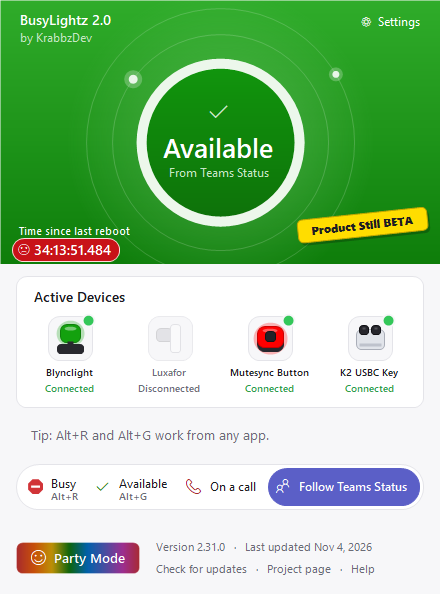
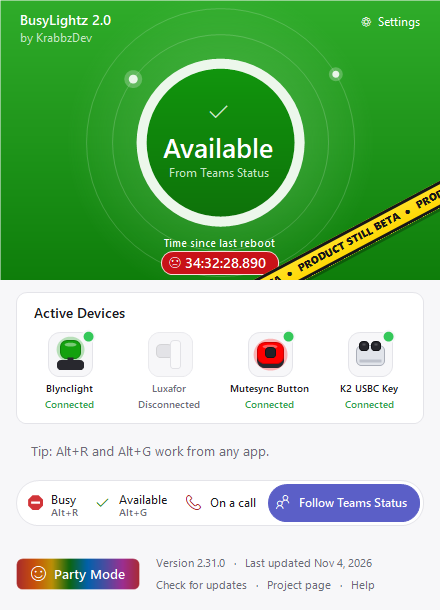
Add Disable switches for the K2 and Mutesync, police tape, centered uptime
- K2 USBC Key: a Disable K2 Functions switch; while on, no actions run and
  the K2's clicks go through as ordinary mouse clicks. The action rows grey
  out, and the text box for an action that needs none stays read-only.
- Mutesync Button: Disable Mutesync Button Functions replaces the old on
  switch (same setting, turned around); the ring settings grey out.
- Light Control's Disable All Light Functions switch is red to match.
- The BETA sticker is now police tape: yellow with black edges and the
  words repeated, across the corner of Orbit and Color block.
- The uptime clock is centered under the ring.

diff --git a/src/SettingsForm.cs b/src/SettingsForm.cs
@@ -153,10 +153,12 @@ namespace Krabbz.Blynclight
             Heading(null, null);
             DevicePicture(new MuteSyncPicture(), muteButtonStatus,
                 "Its ring here shows what your button is showing right now.");
-            Box("Mute and unmute my mic with a Mutesync Button", AppSettings.MuteSyncEnabled,
-                v => { AppSettings.MuteSyncEnabled = v; tray.ApplySettings(); RefreshDevices(); },
-                help: "Pressing your Mutesync Button mutes or unmutes your mic in Windows, for every app. Its ring shows red when muted and green when live. Close the MuteMe app so BusyLightz can use the button.");
+            var muteSyncOff = DisableSwitch("Disable Mutesync Button Functions", !AppSettings.MuteSyncEnabled,
+                v => { AppSettings.MuteSyncEnabled = !v; tray.ApplySettings(); RefreshDevices(); },
+                "BusyLightz lets go of the button: pressing it won't mute your mic, and its ring goes dark. Turn this on to use the MuteMe app instead.");
+            int firstRingControl = page.Controls.Count;
             RingSection();
+            GreyOutWhile(muteSyncOff, firstRingControl);
             EndPage();
 
             StartPage("K2 USBC Key", K2Glyph, PageColors.K2, "Two buttons for anything you like: type, mute, set your status.");
@@ -206,6 +208,44 @@ namespace Krabbz.Blynclight
         }
 
         readonly K2Picture k2Picture = new K2Picture();
+
+        // A "Disable ... Functions" switch in bold, with what it does underneath; on means the device is left alone.
+        CheckBox DisableSwitch(string text, bool value, Action<bool> save, string note)
+        {
+            var box = new ToggleBox
+            {
+                Text = text,
+                Checked = value,
+                AutoSize = true,
+                Font = new Font("Segoe UI Semibold", 10.5f),
+                Location = new Point(24, y),
+                Accent = Theme.Red,
+            };
+            box.CheckedChanged += delegate { save(box.Checked); };
+            Add(box);
+            y += 28;
+            Add(new Label
+            {
+                Text = note,
+                AutoSize = true,
+                MaximumSize = new Size(width - 24 - 70 - 24, 0),
+                Font = new Font("Segoe UI", 9f),
+                Location = new Point(24 + 46, y),
+                Tag = VersionLabel,
+            });
+            y += 40 + RowGap;
+            return box;
+        }
+
+        // Greys out the controls added to this page from index first on, while the switch is on.
+        void GreyOutWhile(CheckBox off, int first)
+        {
+            var controls = new List<Control>();
+            for (int i = first; i < page.Controls.Count; i++) controls.Add(page.Controls[i]);
+            Action apply = () => { foreach (var control in controls) control.Enabled = !off.Checked; };
+            off.CheckedChanged += delegate { apply(); };
+            apply();
+        }
 
         // A device's picture on the left, with its status and a short note beside it.
         void DevicePicture(Control picture, Label status, string note)
@@ -294,6 +334,10 @@ namespace Krabbz.Blynclight
             DevicePicture(k2Picture, k2Status, "Press a button on your K2 and it lights up here.");
             tray.K2Pressed += k2Picture.Flash;
             FormClosed += delegate { tray.K2Pressed -= k2Picture.Flash; };
+            var k2Off = DisableSwitch("Disable K2 Functions", AppSettings.K2Disabled,
+                v => { AppSettings.K2Disabled = v; tray.ApplySettings(); },
+                "BusyLightz leaves the K2 alone: no actions run, and its buttons are ordinary left and right mouse clicks again.");
+            int firstK2Control = page.Controls.Count;
             K2Row("Left button", K2Key.Button.Left, "What happens when you press the K2 USBC Key's left button on its own.");
             K2Row("Right button", K2Key.Button.Right, "What happens when you press the K2 USBC Key's right button on its own.");
             K2Row("Both together", K2Key.Button.Both, "What happens when you press both buttons at the same time. It counts once, so it doesn't also run Left or Right.");
@@ -305,6 +349,7 @@ namespace Krabbz.Blynclight
             email.TextChanged += delegate { AppSettings.MacroEmail = email.Text; };
             Add(email);
             y += 28 + RowGap + 4;
+            GreyOutWhile(k2Off, firstK2Control);
             Add(new Label
             {
                 Text = "No K2 software needed. Out of the box the K2 USBC Key's buttons are mouse clicks; BusyLightz cancels those clicks " +
@@ -342,9 +387,14 @@ namespace Krabbz.Blynclight
             Action showValue = () =>
             {
                 string action = K2Actions.All[picker.SelectedIndex][0];
-                value.Enabled = K2Actions.NeedsValue(action);
+                // Read-only (not disabled) when the action needs no text, so Disable K2 Functions can grey the row and
+                // turning it off again leaves this as the action wants it.
+                bool needs = K2Actions.NeedsValue(action);
+                value.ReadOnly = !needs;
+                value.TabStop = needs;
+                value.ForeColor = needs ? Theme.Text : Theme.Muted;
                 // A hint in the empty box for what goes there; the email action shows the address it types.
-                value.Text = value.Enabled ? AppSettings.K2Value(button) : action == "TypeEmail" ? AppSettings.MacroEmail : "";
+                value.Text = needs ? AppSettings.K2Value(button) : action == "TypeEmail" ? AppSettings.MacroEmail : "";
                 SetCue(value, K2Actions.Hint(action));
             };
             picker.SelectedIndexChanged += delegate
@@ -352,7 +402,7 @@ namespace Krabbz.Blynclight
                 AppSettings.SetK2Action(button, K2Actions.All[picker.SelectedIndex][0]);
                 showValue();
             };
-            value.TextChanged += delegate { if (value.Enabled) AppSettings.SetK2Value(button, value.Text); };
+            value.TextChanged += delegate { if (!value.ReadOnly) AppSettings.SetK2Value(button, value.Text); };
             showValue();
             Add(picker);
             Add(value);
@@ -1116,6 +1166,7 @@ namespace Krabbz.Blynclight
             var disableAll = new ToggleBox
             {
                 Text = "Disable All Light Functions",
+                Accent = Theme.Red,
                 Checked = AppSettings.UsbLightsDisabled,
                 AutoSize = true,
                 Font = new Font("Segoe UI Semibold", 10),

diff --git a/src/ControlForm.cs b/src/ControlForm.cs
@@ -501,7 +501,7 @@ namespace Krabbz.Blynclight
 
             // Bottom left: how long since the PC last restarted, to the millisecond; bottom right: the beta sticker.
             DrawUptime(g, text, soft);
-            DeviceTiles.BetaSticker(g, Width - Pad - 62, Height - 40);
+            DeviceTiles.BetaSticker(g, Width - 84, Height - 42, -28, 300);
         }
 
         [System.Runtime.InteropServices.DllImport("kernel32.dll")]
@@ -520,21 +520,25 @@ namespace Krabbz.Blynclight
             // A running clock in total hours: hours:minutes:seconds.milliseconds, e.g. 34:08:49.234 after a day and 10 hours.
             string value = ((int)up.TotalHours).ToString("00") + ":" + up.Minutes.ToString("00") + ":" +
                 up.Seconds.ToString("00") + "." + up.Milliseconds.ToString("000");
-            int x = Pad, top = Height - 40;
-            TextRenderer.DrawText(g, "Time since last reboot", UptimeLabelFont, new Point(x, top), overADay ? text : soft);
-            var size = TextRenderer.MeasureText(g, value, UptimeFont, Size.Empty, TextFormatFlags.NoPadding);
+            // Centered under the ring. Sized from a template of zeros, so it doesn't shift as the digits tick.
+            var labelSize = TextRenderer.MeasureText(g, "Time since last reboot", UptimeLabelFont, Size.Empty, TextFormatFlags.NoPadding);
+            var size = TextRenderer.MeasureText(g, System.Text.RegularExpressions.Regex.Replace(value, "[0-9]", "0"), UptimeFont, Size.Empty, TextFormatFlags.NoPadding);
+            int top = Height - 44;
+            TextRenderer.DrawText(g, "Time since last reboot", UptimeLabelFont, new Point((Width - labelSize.Width) / 2, top), overADay ? text : soft, TextFormatFlags.NoPadding);
             if (!overADay)
             {
-                TextRenderer.DrawText(g, value, UptimeFont, new Point(x, top + 16), text, TextFormatFlags.NoPadding);
+                TextRenderer.DrawText(g, value, UptimeFont, new Rectangle((Width - size.Width) / 2 - 4, top + 17, size.Width + 8, size.Height), text,
+                    TextFormatFlags.NoPadding | TextFormatFlags.HorizontalCenter);
                 return;
             }
             // Over a day: a red pill with a sad face.
-            const string Sad = "☹";
+            const string Sad = "\u2639";
             var face = TextRenderer.MeasureText(g, Sad, SadFont, Size.Empty, TextFormatFlags.NoPadding);
-            var pill = new Rectangle(x - 4, top + 14, face.Width + 6 + size.Width + 12, Math.Max(size.Height, face.Height) + 4);
+            int width = face.Width + 6 + size.Width + 18;
+            var pill = new Rectangle((Width - width) / 2, top + 15, width, Math.Max(size.Height, face.Height) + 4);
             Theme.FillRounded(g, pill, pill.Height / 2, Color.FromArgb(200, 18, 24), Color.FromArgb(255, 220, 220));
-            TextRenderer.DrawText(g, Sad, SadFont, new Point(pill.X + 6, pill.Y + (pill.Height - face.Height) / 2), Color.White, TextFormatFlags.NoPadding);
-            TextRenderer.DrawText(g, value, UptimeFont, new Point(pill.X + 6 + face.Width + 4, pill.Y + (pill.Height - size.Height) / 2), Color.White, TextFormatFlags.NoPadding);
+            TextRenderer.DrawText(g, Sad, SadFont, new Point(pill.X + 8, pill.Y + (pill.Height - face.Height) / 2), Color.White, TextFormatFlags.NoPadding);
+            TextRenderer.DrawText(g, value, UptimeFont, new Point(pill.X + 8 + face.Width + 4, pill.Y + (pill.Height - size.Height) / 2), Color.White, TextFormatFlags.NoPadding);
         }
 
 
@@ -721,7 +725,7 @@ namespace Krabbz.Blynclight
 
             // The beta sticker on the right; device tiles are in the Active Devices panel.
             const int tiles = 0;
-            DeviceTiles.BetaSticker(g, Width - Pad - 62, Height - 20);
+            DeviceTiles.BetaSticker(g, Width - 84, Height - 34, -24, 300);
 
             TextRenderer.DrawText(g, Status, Theme.Hero, new Rectangle(Pad - 2, 36, Width - 2 * Pad - tiles - 8, 40), text,
                 TextFormatFlags.SingleLine | TextFormatFlags.EndEllipsis);
@@ -844,7 +848,7 @@ namespace Krabbz.Blynclight
             }
             else if (style == WindowStyles.Orbit)
             {
-                ring = new OrbitRing { Bounds = new Rectangle(0, 0, WindowWidth, 264) };
+                ring = new OrbitRing { Bounds = new Rectangle(0, 0, WindowWidth, 280) };
                 ring.SettingsClicked += delegate { tray.ShowSettings(); };
                 Controls.Add(ring);
                 y = ring.Bottom + 12;
@@ -907,7 +911,7 @@ namespace Krabbz.Blynclight
             header.Paint += (sender, e) =>
             {
                 using (var pen = new Pen(Theme.Border)) e.Graphics.DrawLine(pen, 0, header.Height - 1, header.Width, header.Height - 1);
-                DeviceTiles.BetaSticker(e.Graphics, WindowWidth - Pad - 92 - 82, 26);
+                DeviceTiles.BetaSticker(e.Graphics, WindowWidth - Pad - 92 - 84, 26, -3, 150);
             };
             header.Controls.Add(new Label { Text = "BusyLightz 2.0", Font = Theme.Strong, ForeColor = Theme.Text, AutoSize = true, Location = new Point(Pad, 9) });
             header.Controls.Add(new Label { Text = "by KrabbzDev", Font = Theme.Small, ForeColor = Theme.Muted, AutoSize = true, Location = new Point(Pad + 1, 29) });

diff --git a/src/DeviceTiles.cs b/src/DeviceTiles.cs
@@ -235,29 +235,59 @@ namespace Krabbz.Blynclight
             Theme.FillRounded(g, foot, 3, dark, dark);
         }
 
-        // A yellow "Product Still BETA" sticker, tilted a little like a real one, centered on (x, y).
-        public static void BetaSticker(Graphics g, int x, int y)
+        // "Product Still BETA" as police tape: a yellow band with black edges and the words repeated in heavy capitals,
+        // with zig-zag cut ends and a soft shadow, centered on (x, y) and turned angle degrees. A long band across a
+        // corner gets cut off by the edges like real tape.
+        public static void BetaSticker(Graphics g, int x, int y, float angle = -8, int length = 210)
         {
-            const string text = "Product Still BETA";
-            var yellow = Color.FromArgb(255, 221, 0);
-            using (var font = new Font("Segoe UI Black", 8.5f))
+            const string Words = "PRODUCT STILL BETA";
+            var yellow = Color.FromArgb(255, 214, 0);
+            var ink = Color.FromArgb(22, 22, 24);
+            const int Band = 24, Edge = 3, Notch = 5;
+            var state = g.Save();
+            g.SmoothingMode = SmoothingMode.AntiAlias;
+            g.TranslateTransform(x, y);
+            g.RotateTransform(angle);
+            float half = length / 2f, top = -Band / 2f, bottom = Band / 2f;
+            // The tape's outline, with zig-zag cuts at both ends.
+            var outline = new List<PointF> { new PointF(-half, top), new PointF(half, top) };
+            for (int i = 1; i <= 4; i++) outline.Add(new PointF(half + (i % 2 == 1 ? -Notch : 0), top + i * Band / 4f));
+            outline.Add(new PointF(-half, bottom));
+            for (int i = 3; i >= 1; i--) outline.Add(new PointF(-half + (i % 2 == 1 ? Notch : 0), top + i * Band / 4f));
+            using (var path = new GraphicsPath())
             {
-                var size = TextRenderer.MeasureText(g, text, font, Size.Empty, TextFormatFlags.NoPadding);
-                var r = new Rectangle(-size.Width / 2 - 10, -size.Height / 2 - 4, size.Width + 20, size.Height + 8);
-                var state = g.Save();
-                g.SmoothingMode = SmoothingMode.AntiAlias;
-                g.TranslateTransform(x, y);
-                g.RotateTransform(-6);
-                using (var shadow = Theme.Rounded(new Rectangle(r.X + 2, r.Y + 3, r.Width, r.Height), 5))
-                using (var dark = new SolidBrush(Color.FromArgb(60, 0, 0, 0)))
-                    g.FillPath(dark, shadow);
-                Theme.FillRounded(g, r, 5, yellow, Theme.Mix(yellow, Color.Black, 0.25));
-                // TextRenderer ignores the rotation, so the text is drawn with GDI+.
-                using (var ink = new SolidBrush(Color.FromArgb(30, 30, 34)))
-                using (var center = new StringFormat { Alignment = StringAlignment.Center, LineAlignment = StringAlignment.Center })
-                    g.DrawString(text, font, ink, new RectangleF(r.X, r.Y + 1, r.Width, r.Height), center);
-                g.Restore(state);
+                path.AddPolygon(outline.ToArray());
+                using (var shadow = new SolidBrush(Color.FromArgb(70, 0, 0, 0)))
+                {
+                    g.TranslateTransform(2, 3);
+                    g.FillPath(shadow, path);
+                    g.TranslateTransform(-2, -3);
+                }
+                using (var fill = new LinearGradientBrush(new RectangleF(-half, top, length, Band), Color.FromArgb(255, 226, 40), yellow, LinearGradientMode.Vertical))
+                    g.FillPath(fill, path);
+                // Black edges along the top and bottom, kept inside the tape.
+                var clip = g.Save();
+                g.SetClip(path);
+                using (var edge = new SolidBrush(ink))
+                {
+                    g.FillRectangle(edge, -half, top, length, Edge);
+                    g.FillRectangle(edge, -half, bottom - Edge, length, Edge);
+                }
+                // The words, repeated along the tape with a bullet between them.
+                using (var font = new Font("Segoe UI Black", 8f))
+                using (var brush = new SolidBrush(ink))
+                using (var format = new StringFormat { LineAlignment = StringAlignment.Center })
+                {
+                    string phrase = Words + "  \u25CF  ";
+                    float step = g.MeasureString(phrase, font).Width;
+                    // One copy centered on the tape, so the words read in full however much of the tape shows.
+                    float start = -step / 2 - step * (float)Math.Ceiling(half / step);
+                    for (float tx = start; tx < half; tx += step)
+                        g.DrawString(phrase, font, brush, new RectangleF(tx, top + 1, step + 4, Band - 2), format);
+                }
+                g.Restore(clip);
             }
+            g.Restore(state);
         }
 
         // Luxafor Flag: a white upright bar with the colored flag on its side.

diff --git a/src/K2Key.cs b/src/K2Key.cs
@@ -89,6 +89,10 @@ namespace Krabbz.Blynclight
         // How many of the K2's own clicks have been cancelled, for the log and tests.
         public int ClicksBlocked { get { return blocked; } }
 
+        // Set from Disable K2 Functions in Settings: the K2's clicks go through as ordinary clicks, and no press is
+        // reported, so no action runs.
+        public static volatile bool Disabled;
+
         public K2Key()
         {
             ui = SynchronizationContext.Current ?? new WindowsFormsSynchronizationContext();
@@ -136,7 +140,7 @@ namespace Krabbz.Blynclight
                 int message = wParam.ToInt32();
                 ushort flag = message == WM_LBUTTONDOWN ? LeftDown : message == WM_LBUTTONUP ? LeftUp
                     : message == WM_RBUTTONDOWN ? RightDown : message == WM_RBUTTONUP ? RightUp : (ushort)0;
-                if (flag != 0)
+                if (flag != 0 && !Disabled)
                 {
                     try
                     {
@@ -255,6 +259,7 @@ namespace Krabbz.Blynclight
             if (!wasDown || leftDown || rightDown) return;
             var pressed = bothSeen ? Button.Both : button;
             bothSeen = false;
+            if (Disabled) return;
             ui.Post(delegate { if (Pressed != null) Pressed(pressed); }, null);
         }
 

diff --git a/src/TrayApp.cs b/src/TrayApp.cs
@@ -416,6 +416,7 @@ namespace Krabbz.Blynclight
             };
             K2Connected = K2Key.Present();
             // The K2 key's buttons run the macros picked in Settings.
+            K2Key.Disabled = AppSettings.K2Disabled;
             k2Key = new K2Key();
             k2Key.Pressed += button =>
             {
@@ -606,6 +607,7 @@ namespace Krabbz.Blynclight
             light.ApplySettings();
             calls.Recheck();
             muteButton.Enabled = AppSettings.MuteSyncEnabled;
+            K2Key.Disabled = AppSettings.K2Disabled;
             muteButton.ApplySettings();
             if (AppSettings.OverrideTimesOut) StartOverrideTimerIfNeeded();
             else light.SetReturnToTeams(null);

diff --git a/src/AppSettings.cs b/src/AppSettings.cs
@@ -171,6 +171,9 @@ namespace Krabbz.Blynclight
         }
         public static bool MuteSyncOnlyOnCalls { get { return Get("MuteSyncOnlyOnCalls", false); } set { Set("MuteSyncOnlyOnCalls", value); } }
 
+        // Leaves the K2 key alone: no actions, and its buttons are ordinary mouse clicks again. Off unless changed.
+        public static bool K2Disabled { get { return Get("K2Disabled", false); } set { Set("K2Disabled", value); } }
+
         // K2 macro key: what each button (and both together) does, from K2Actions.All, and the text it needs.
         internal static string K2Action(K2Key.Button button)
         {

diff --git a/docs/Mute-Button-and-K2-Key.md b/docs/Mute-Button-and-K2-Key.md
@@ -31,7 +31,7 @@ Open **Settings > Mutesync Button**. At the top, a picture of the button shows i
 
 | Setting | What it does |
 | --- | --- |
-| **Mute and unmute my mic with a Mutesync Button** | Turns mutesync support on or off. On by default; it does nothing until a button is plugged in. The status underneath says *Connected on COM3* (or another port), *Not found* or *In use by another app*. |
+| **Disable Mutesync Button Functions** | Off by default. Turn it on and BusyLightz lets go of the button: pressing it won't mute your mic and its ring goes dark, so you can use the MuteMe app instead. The ring settings are greyed out while it's on. The status beside the picture says *Connected on COM3* (or another port), *Not found*, *In use by another app* or *Turned off*. |
 | **Ring brightness** | 5% to 100%. The default, 25%, matches the MuteMe app. |
 | **Muted** / **Live (not muted)** | The ring's colors. Red and green by default; click a dot to pick from the same colors as your lights. |
 | **Only light the ring while an app is using my mic** | Keeps the ring dark except during calls, so it isn't glowing all day. Off by default. |
@@ -45,6 +45,8 @@ The K2's two buttons each run an action, and so does pressing **both together**.
 Out of the box the K2's buttons are a left and a right mouse click. BusyLightz catches those clicks before Windows acts on them, so a press only runs your action and doesn't click wherever the pointer is. Clicks from your real mouse aren't affected. While BusyLightz isn't running, the K2 clicks like a mouse again.
 
 ### What each button can do
+
+**Disable K2 Functions** (off by default) makes BusyLightz leave the K2 alone: no actions run, and its buttons are ordinary left and right mouse clicks again. The actions below are greyed out while it's on.
 
 Pick an action for **Left button**, **Right button** and **Both together** in **Settings > K2 USBC Key**. At the top of that page, a picture of the K2 lights up the key you press on the real one (both keys for Both together), so you can check it's working.
 

diff --git a/docs/Using-the-Light.md b/docs/Using-the-Light.md
@@ -33,7 +33,7 @@ Pick how the window looks under **Window style** in [Settings](#settings). Each 
 
 | Style | Looks like |
 | --- | --- |
-| **Orbit** (the default) | The top of the window glows in your status color, with a big ring showing the status and its icon, e.g. ✓ *Available* over *From Teams Status*. Two faint orbits circle the ring, each with a small dot that drifts slowly around it. During an override the ring is a countdown: it empties as the time left runs out. In the lower left, **Time since last reboot** is a running clock in hours, to the millisecond (e.g. *34:08:49.234*); after 24 hours it turns into a red pill with a ☹. (Windows' Fast Startup keeps the clock running through a shut down; only a restart resets it.) The modes are one pill-shaped switcher below. |
+| **Orbit** (the default) | The top of the window glows in your status color, with a big ring showing the status and its icon, e.g. ✓ *Available* over *From Teams Status*. Two faint orbits circle the ring, each with a small dot that drifts slowly around it. During an override the ring is a countdown: it empties as the time left runs out. Under the ring, **Time since last reboot** is a running clock in hours, to the millisecond (e.g. *34:08:49.234*); after 24 hours it turns into a red pill with a ☹. (Windows' Fast Startup keeps the clock running through a shut down; only a restart resets it.) The modes are one pill-shaped switcher below. |
 | **Color block** | The top of the window fills with your status color, with the status in large text. The modes are four tiles below. |
 | **Fluent list** | A status card, with the modes as a list like Windows Settings, hotkeys on the right. |
 
